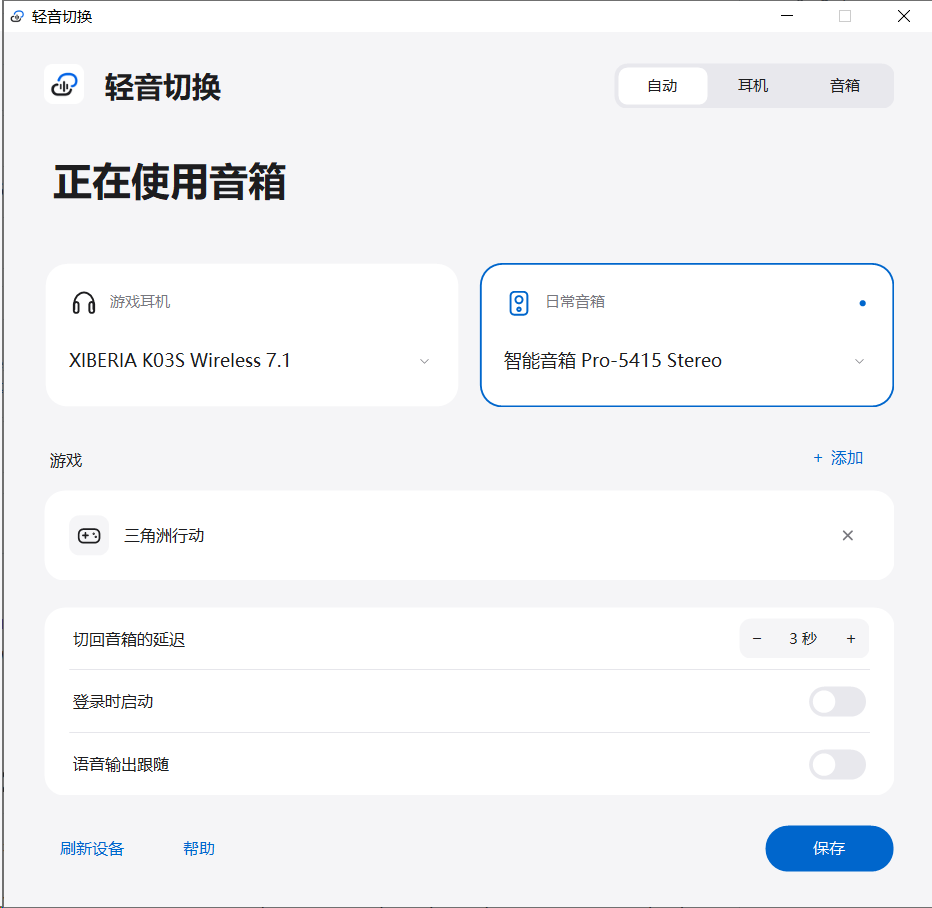
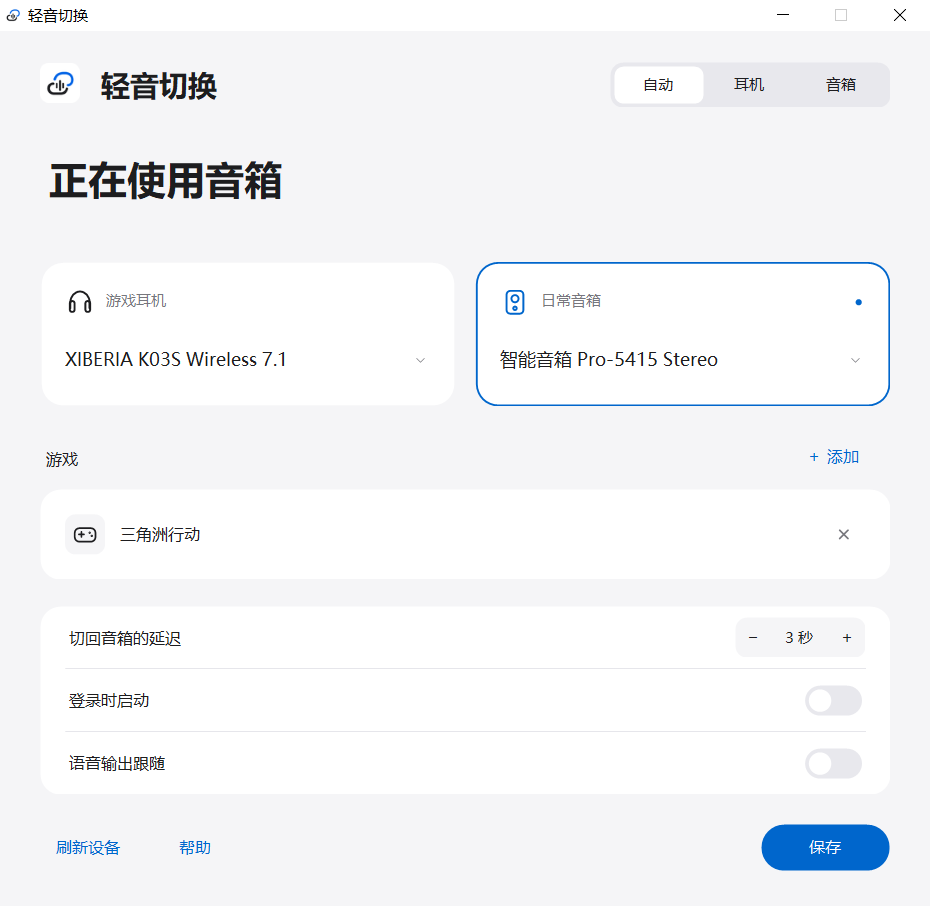
Replace README screenshot and place it after the introduction

diff --git a/README.md b/README.md
@@ -6,6 +6,8 @@
 
 A lightweight Windows tray utility that switches the default audio output between your gaming headset and everyday speakers.
 
+![轻音切换设置界面，自动模式下正在使用音箱](docs/screenshot.png)
+
 ## 下载与使用
 
 [下载 Windows x64 便携版](https://github.com/lambfafa/light-audio-switch/releases/latest/download/LightAudioSwitch-win-x64.zip) · [版本记录](https://github.com/lambfafa/light-audio-switch/releases)
@@ -16,10 +18,6 @@ A lightweight Windows tray utility that switches the default audio output betwee
 4. 关闭设置窗口后，程序继续在托盘运行。双击托盘图标可打开设置，也可在设置里点击「帮助」查看切换规则和故障排查。
 
 需要蓝牙音箱时，请先通过 Windows 完成配对与连接。本程序管理已经可用的音频输出设备。
-
-## 界面截图
-
-![轻音切换设置界面，自动模式下正在使用音箱](docs/screenshot.png)
 
 ## 功能
 
